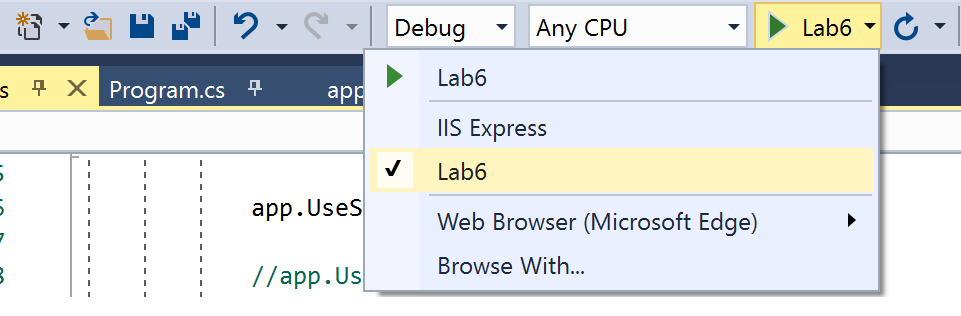
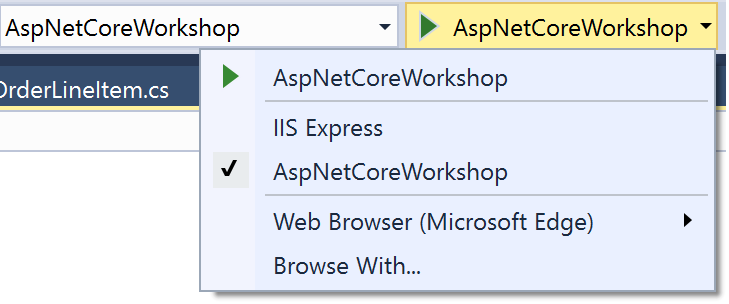
Update lab6a with latest lab from lab 5

diff --git a/Labs/Code/Lab6A/AspNetCoreWorkshop/Startup.cs b/Labs/Code/Lab6A/AspNetCoreWorkshop/Startup.cs
@@ -8,6 +8,7 @@ using Microsoft.EntityFrameworkCore;
 using AspNetCoreWorkshop.Models;
 using AspNetCoreWorkshop.Services;
 using AspNetCoreWorkshop.Middleware;
+using Microsoft.Extensions.Logging;
 
 namespace AspNetCoreWorkshop
 {
@@ -35,7 +36,7 @@ namespace AspNetCoreWorkshop
         }
 
         // This method gets called by the runtime. Use this method to configure the HTTP request pipeline.
-        public void Configure(IApplicationBuilder app, IHostingEnvironment env)
+        public void Configure(IApplicationBuilder app, IHostingEnvironment env, ILogger<Startup> startupLogger)
         {
             if (env.IsDevelopment())
             {
@@ -49,6 +50,13 @@ namespace AspNetCoreWorkshop
             app.UseMvc();
             app.UseSwagger();
             app.UseSwaggerUI(c => c.SwaggerEndpoint("/swagger/v1/swagger.json", "My API V1"));
+
+            startupLogger.LogInformation("Application startup complete!");
+            startupLogger.LogCritical("This is a critical message");
+            startupLogger.LogDebug("This is a debug message");
+            startupLogger.LogTrace("This is a trace message");
+            startupLogger.LogWarning("This is a warning message");
+            startupLogger.LogError("This is a error message");
         }
     }
 }

diff --git a/Labs/Code/Lab6A/AspNetCoreWorkshop/Program.cs b/Labs/Code/Lab6A/AspNetCoreWorkshop/Program.cs
@@ -9,6 +9,7 @@ using Microsoft.Extensions.Configuration;
 using Microsoft.Extensions.Logging;
 using Microsoft.Extensions.DependencyInjection;
 using AspNetCoreWorkshop.Data;
+using Microsoft.Extensions.Logging.Console;
 
 namespace AspNetCoreWorkshop
 {
@@ -47,6 +48,11 @@ namespace AspNetCoreWorkshop
             loggingBuilder.AddConfiguration(context.Configuration.GetSection("Logging"));
             loggingBuilder.AddConsole();
             loggingBuilder.AddDebug();
+
+            loggingBuilder.AddFilter<ConsoleLoggerProvider>((category, logLevel) =>
+            {
+                return category == typeof(Startup).FullName;
+            });
         }
 
         private static void SetupAppConfiguration(WebHostBuilderContext context, IConfigurationBuilder configBuilder)

diff --git a/Labs/6. Logging and Diagnostics.md b/Labs/6. Logging and Diagnostics.md
@@ -11,7 +11,7 @@
     }
 ```
 
-2. Add a log statement to the end of the `Configure` method:
+1. Add a log statement to the end of the `Configure` method:
 ```cs
     public void Configure(IApplicationBuilder app, IHostingEnvironment env, ILogger<Startup> startupLogger)
     {
@@ -20,7 +20,7 @@
     }
 ```
 
-3. In Visual Studio, change the active launch host to the application itself (self-host) by navigating to the play/run button and changing the drop-down to the entry named after the application.
+1. In Visual Studio, change the active launch host to the application itself (self-host) by navigating to the play/run button and changing the drop-down to the entry named after the application.
       ![image](Images/run-with-kestrel.png)
 
 1. Run the application and browse to the application root. You should see the default log messages from the framework as well as your custom log message in the console window.
@@ -40,6 +40,8 @@
         startupLogger.LogError("This is an error message");
     }
 ```
+
+1. Run the application and browse to the application root. You should see all of the logged messages other than the `startupLogger.LogTrace()` message in the console window.
 
 1. Open or create `appsettings.json` in the project root. Add this node to configure the Console provider to log all Trace or higher messages:
 ```json
